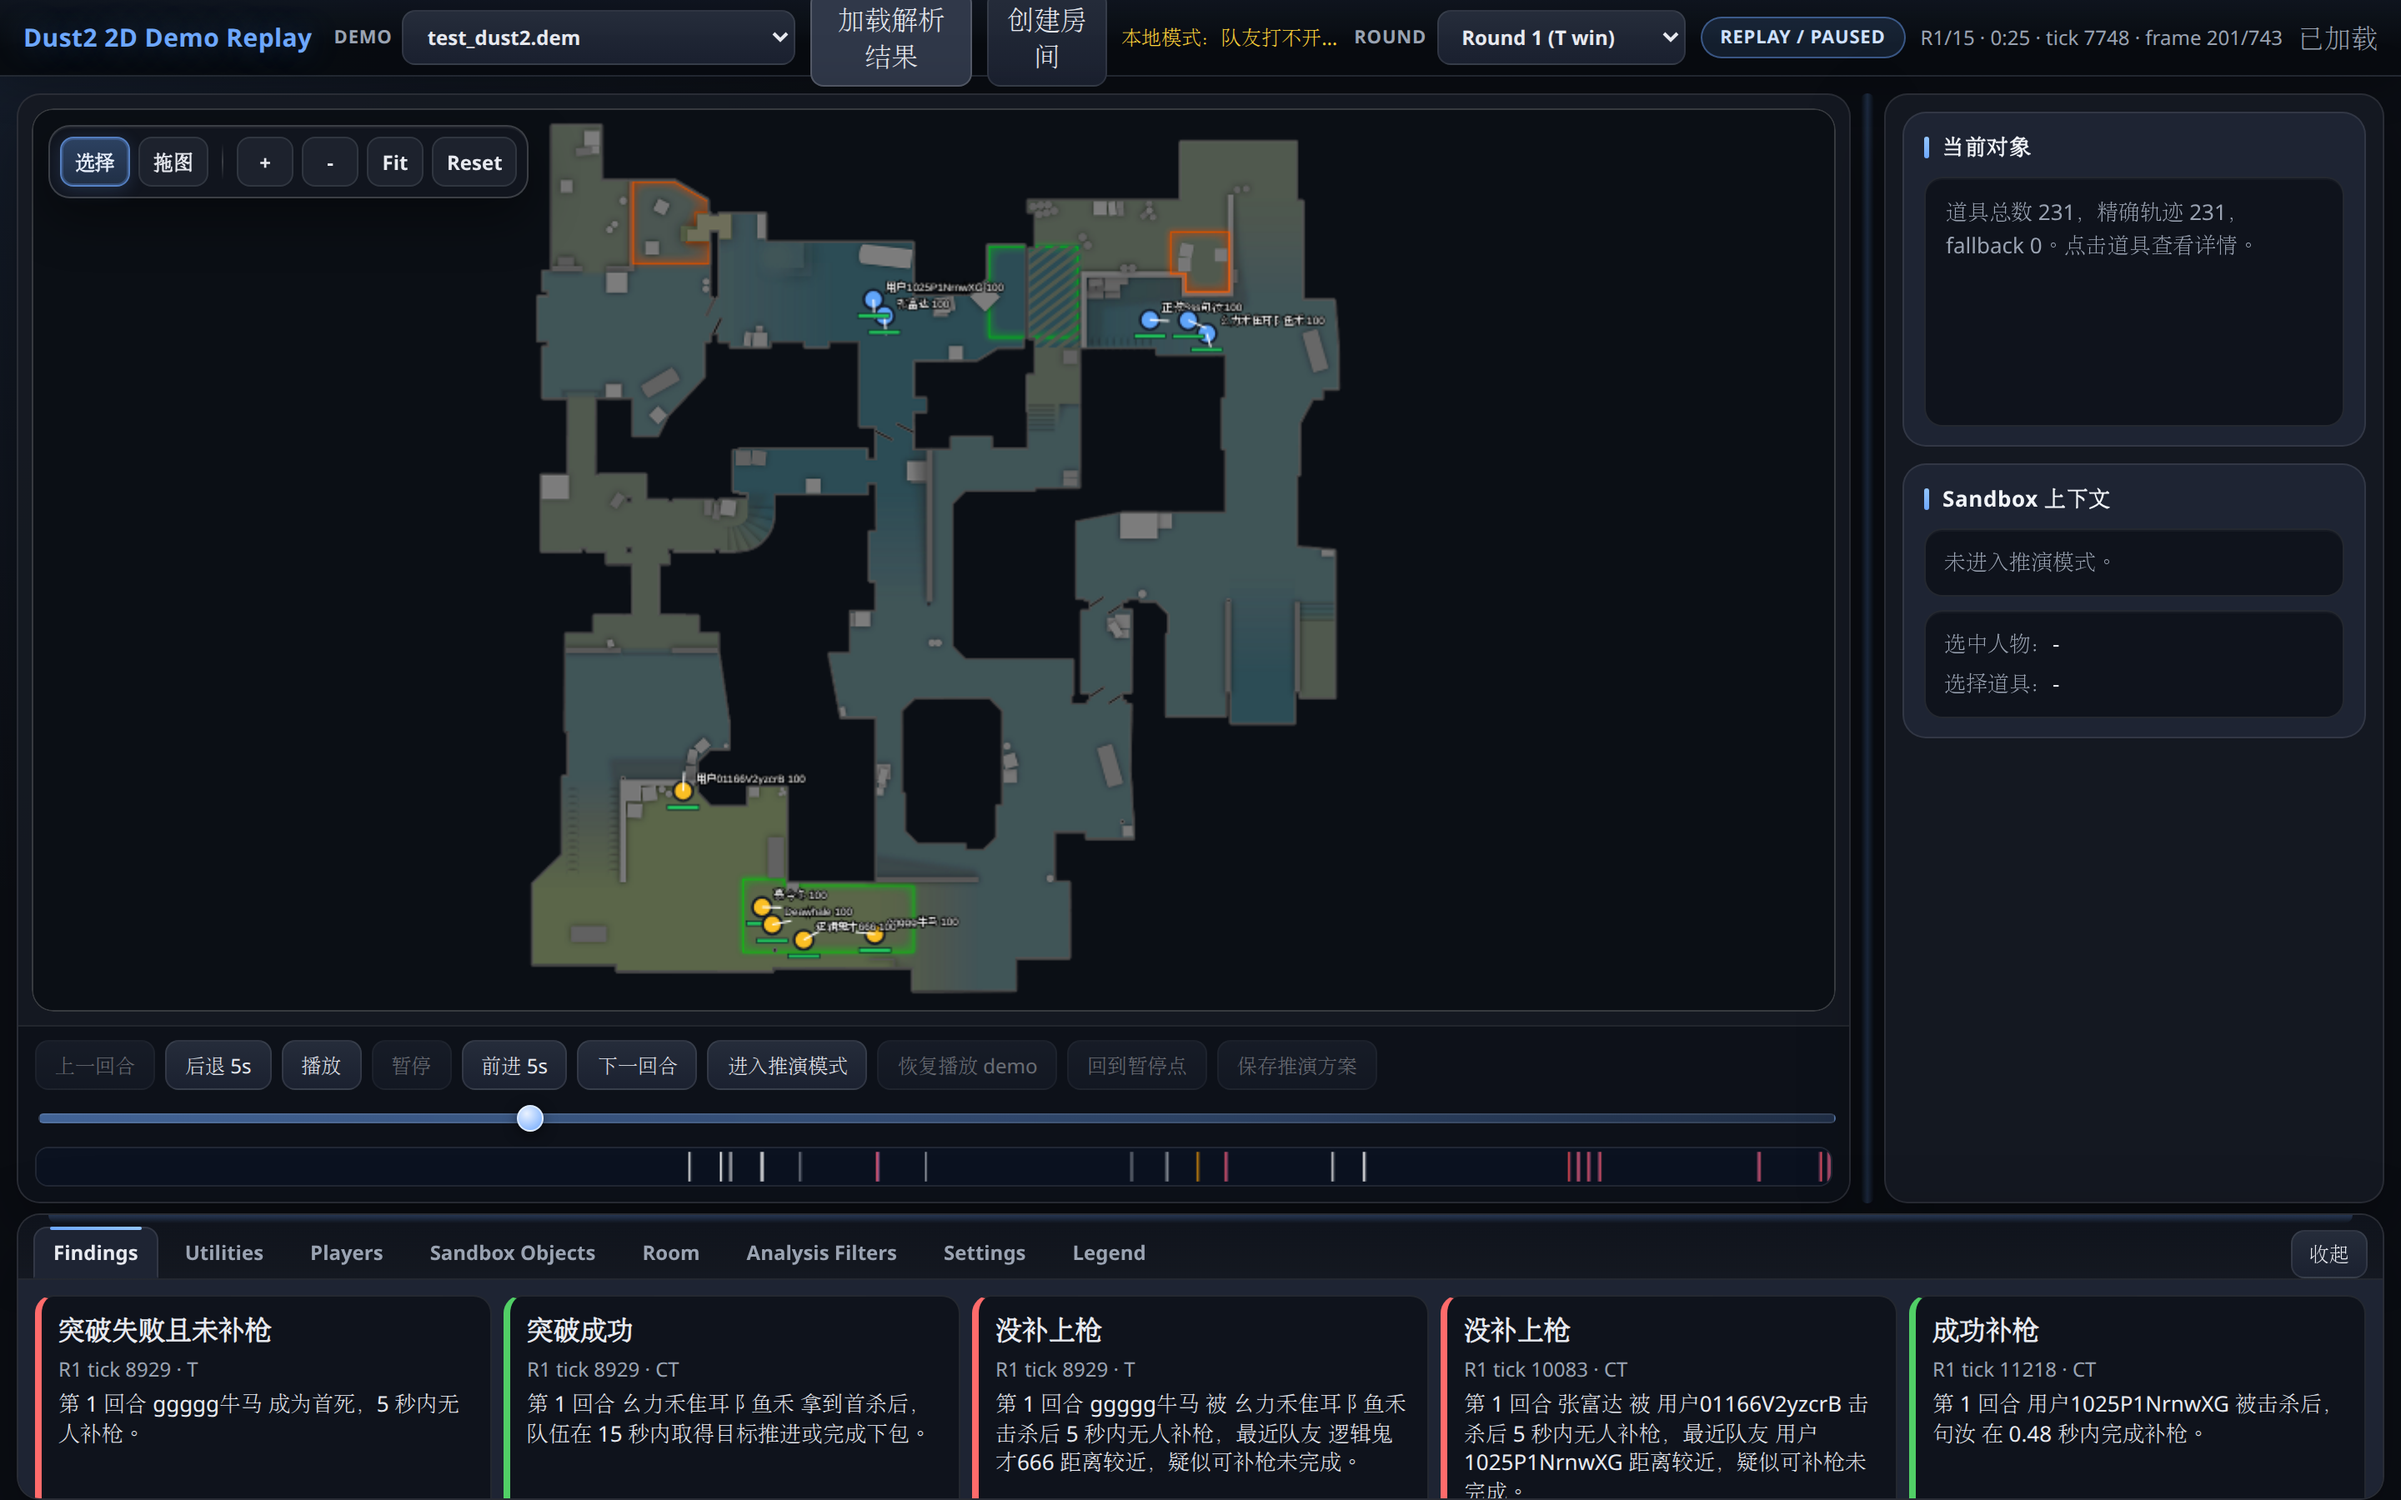
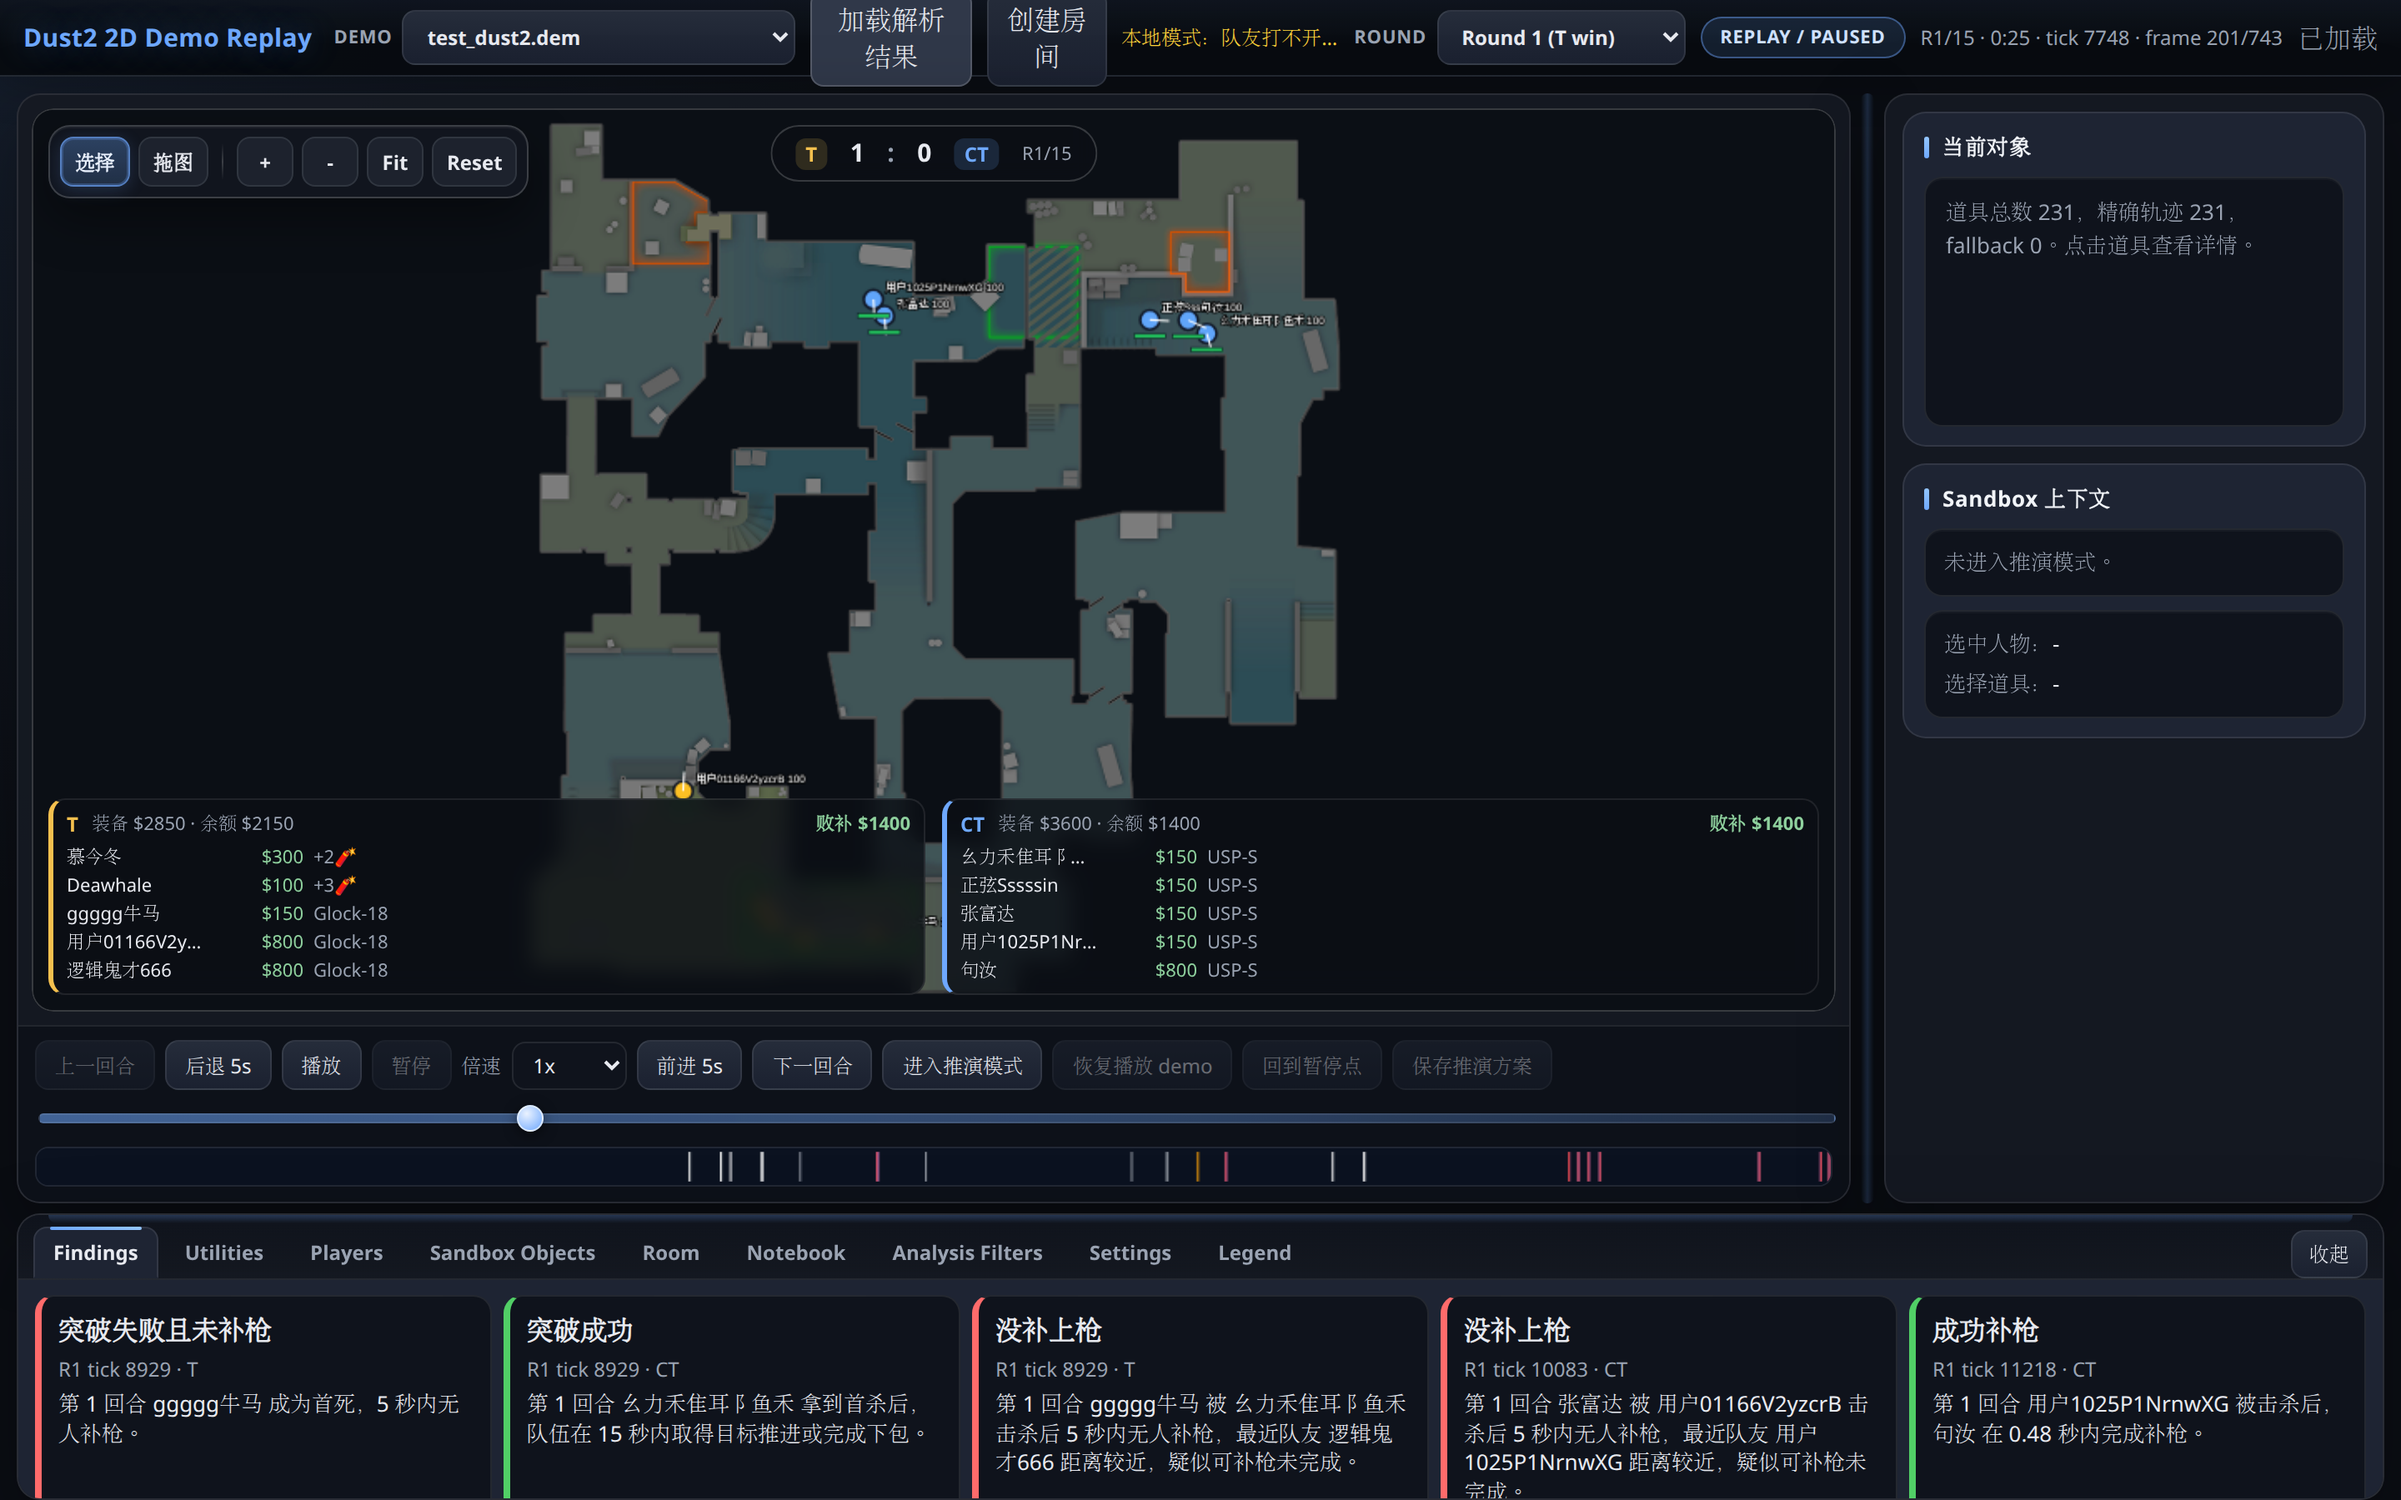
Update README screenshots for the new feature phase
- replay_desktop.png: now shows scoreboard + economy/weapon HUD
- add homepage.png, analysis.png, teams_profile.png and embed them in the
  homepage / teams / member-profile README section

diff --git a/README.md b/README.md
@@ -73,6 +73,16 @@ member's **profile notebook**. A general **notebook library** (create / save /
 recall, stored as local JSON) is available in the replay bottom dock; member
 profile notebooks share that same store.
 
+![Homepage](assets/screenshots/homepage.png)
+
+The Demo Analysis page — player stats + findings, filterable by team member:
+
+![Demo analysis page](assets/screenshots/analysis.png)
+
+Teams page with a member's profile notebook:
+
+![Teams and member profile](assets/screenshots/teams_profile.png)
+
 ### 2. Quickstart
 
 #### 2.1 Install dependencies
@@ -191,6 +201,16 @@ conda run -n cs2demo python -m cs2demo.cli export-replay samples/demos/<your_dem
 可按某战队成员（按 SteamID 或昵称/别名匹配）筛选结果。战队页可创建战队、设置成员，
 并进入每个成员的**画像笔记本**。回放页底部还有通用**笔记本库**（随时新建/保存/调用，
 本地 JSON 存储）；成员画像笔记本与其共用同一存储。
+
+![首页](assets/screenshots/homepage.png)
+
+Demo 分析页 —— 玩家数据 + findings，可按战队成员筛选：
+
+![Demo 分析页](assets/screenshots/analysis.png)
+
+战队页与成员画像笔记本：
+
+![战队与成员画像](assets/screenshots/teams_profile.png)
 
 ### 2. Quickstart
 
